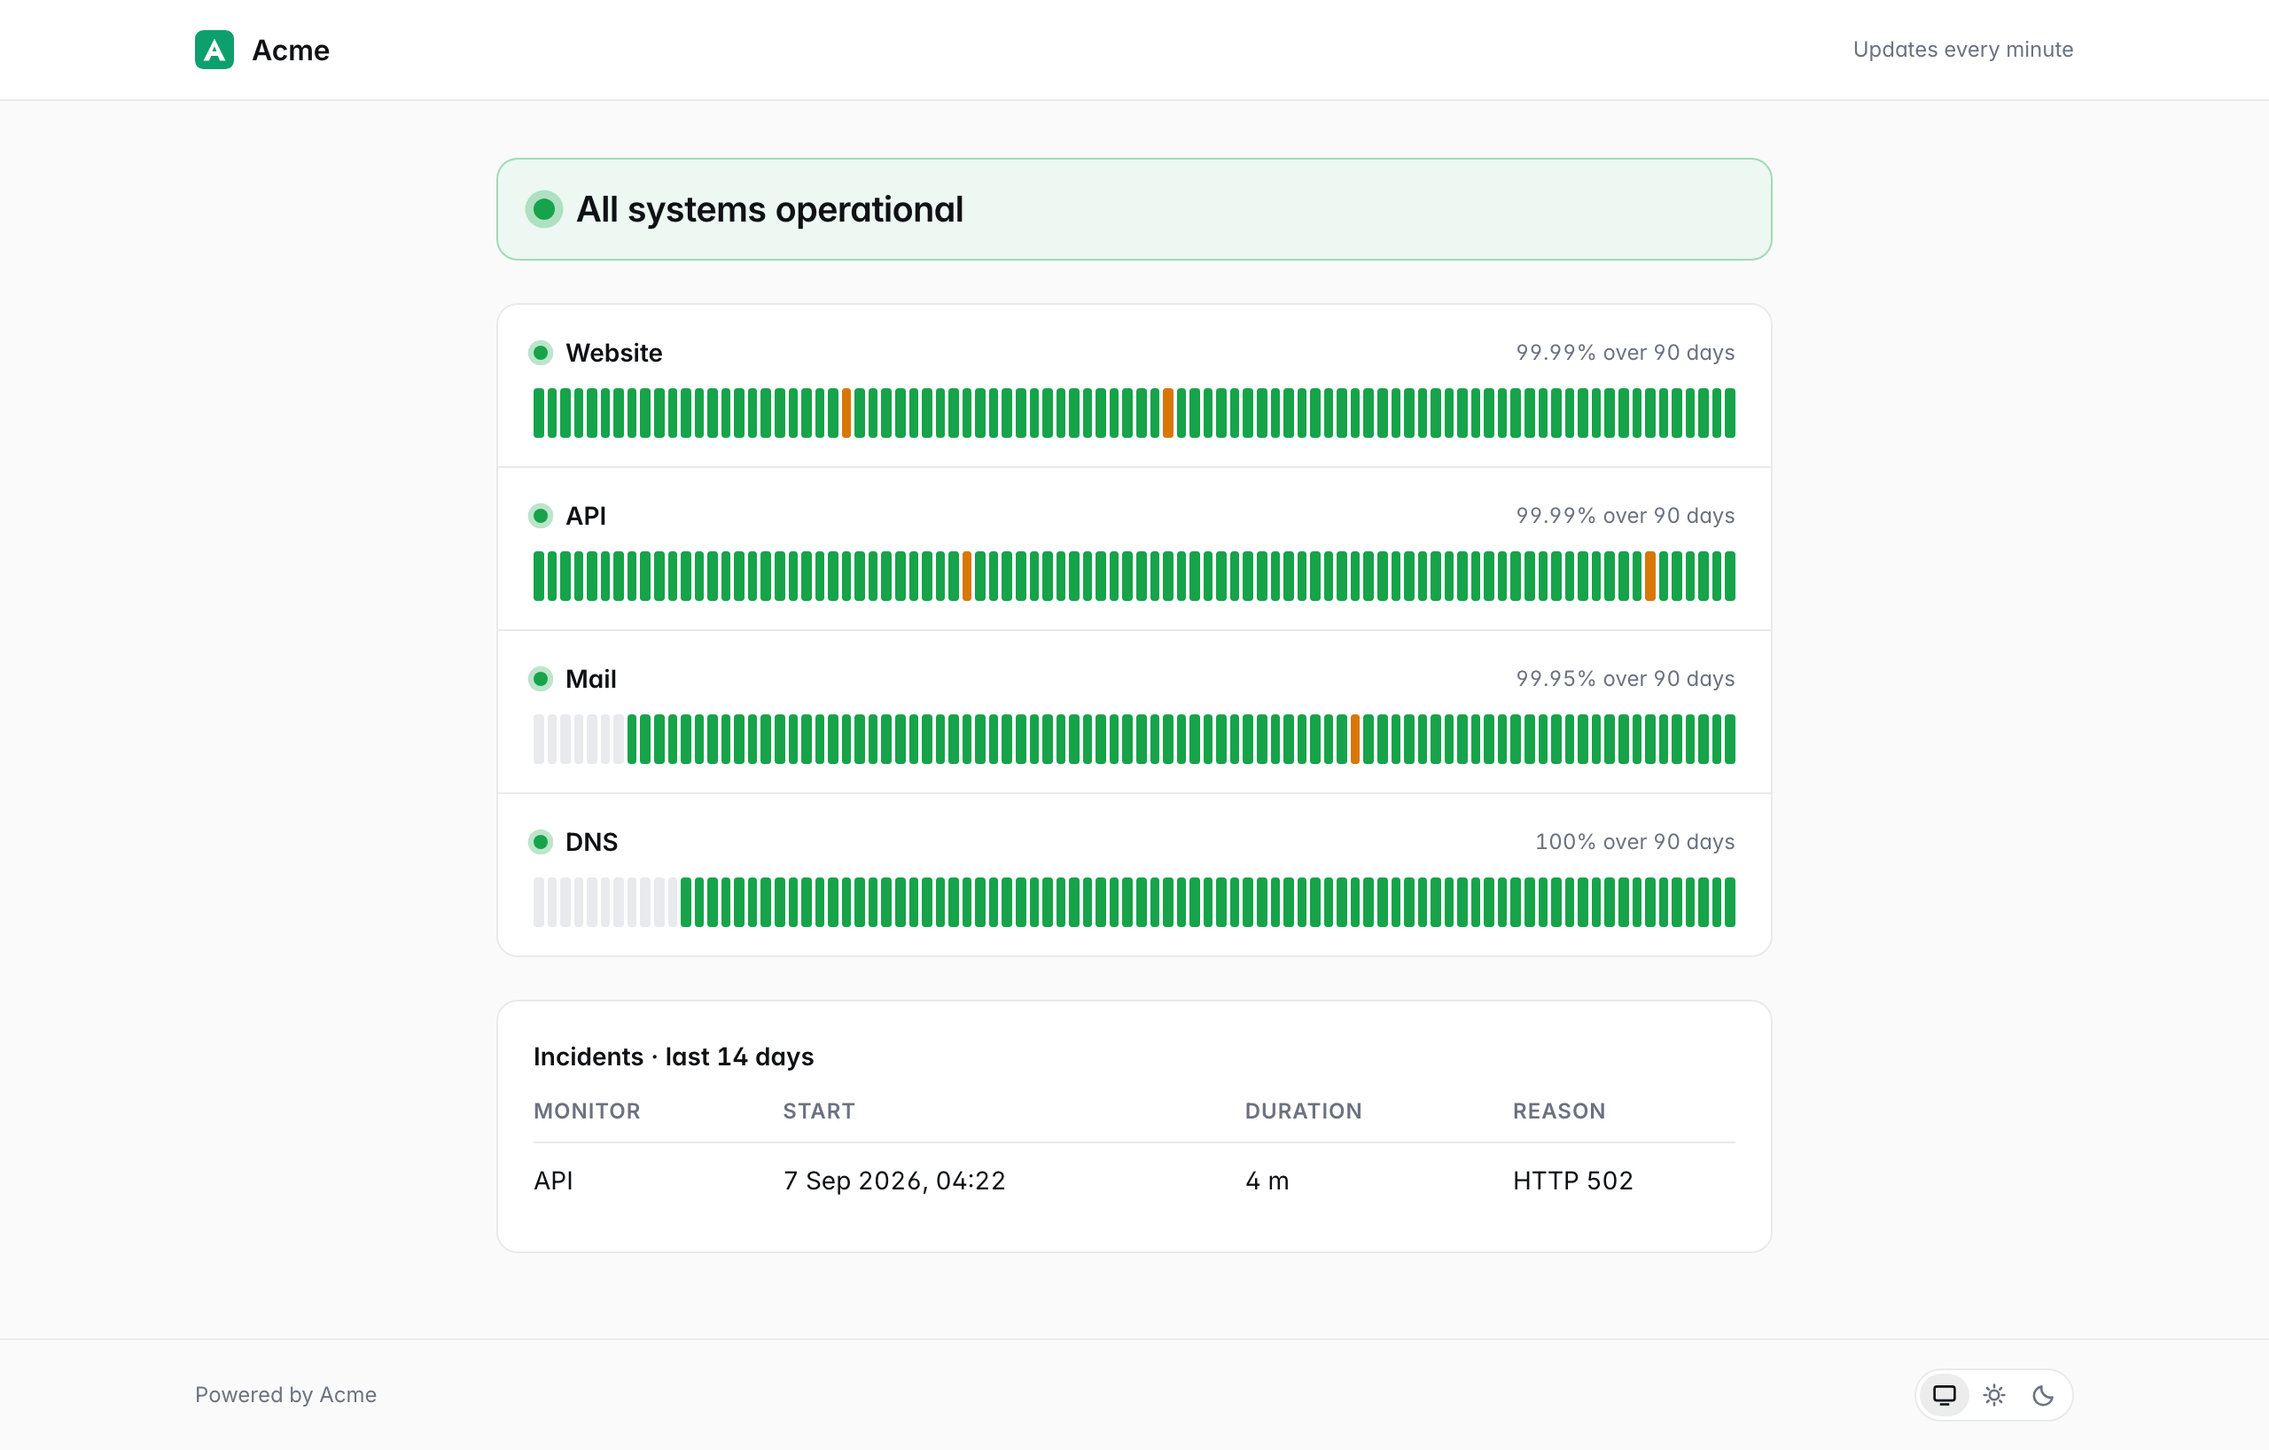
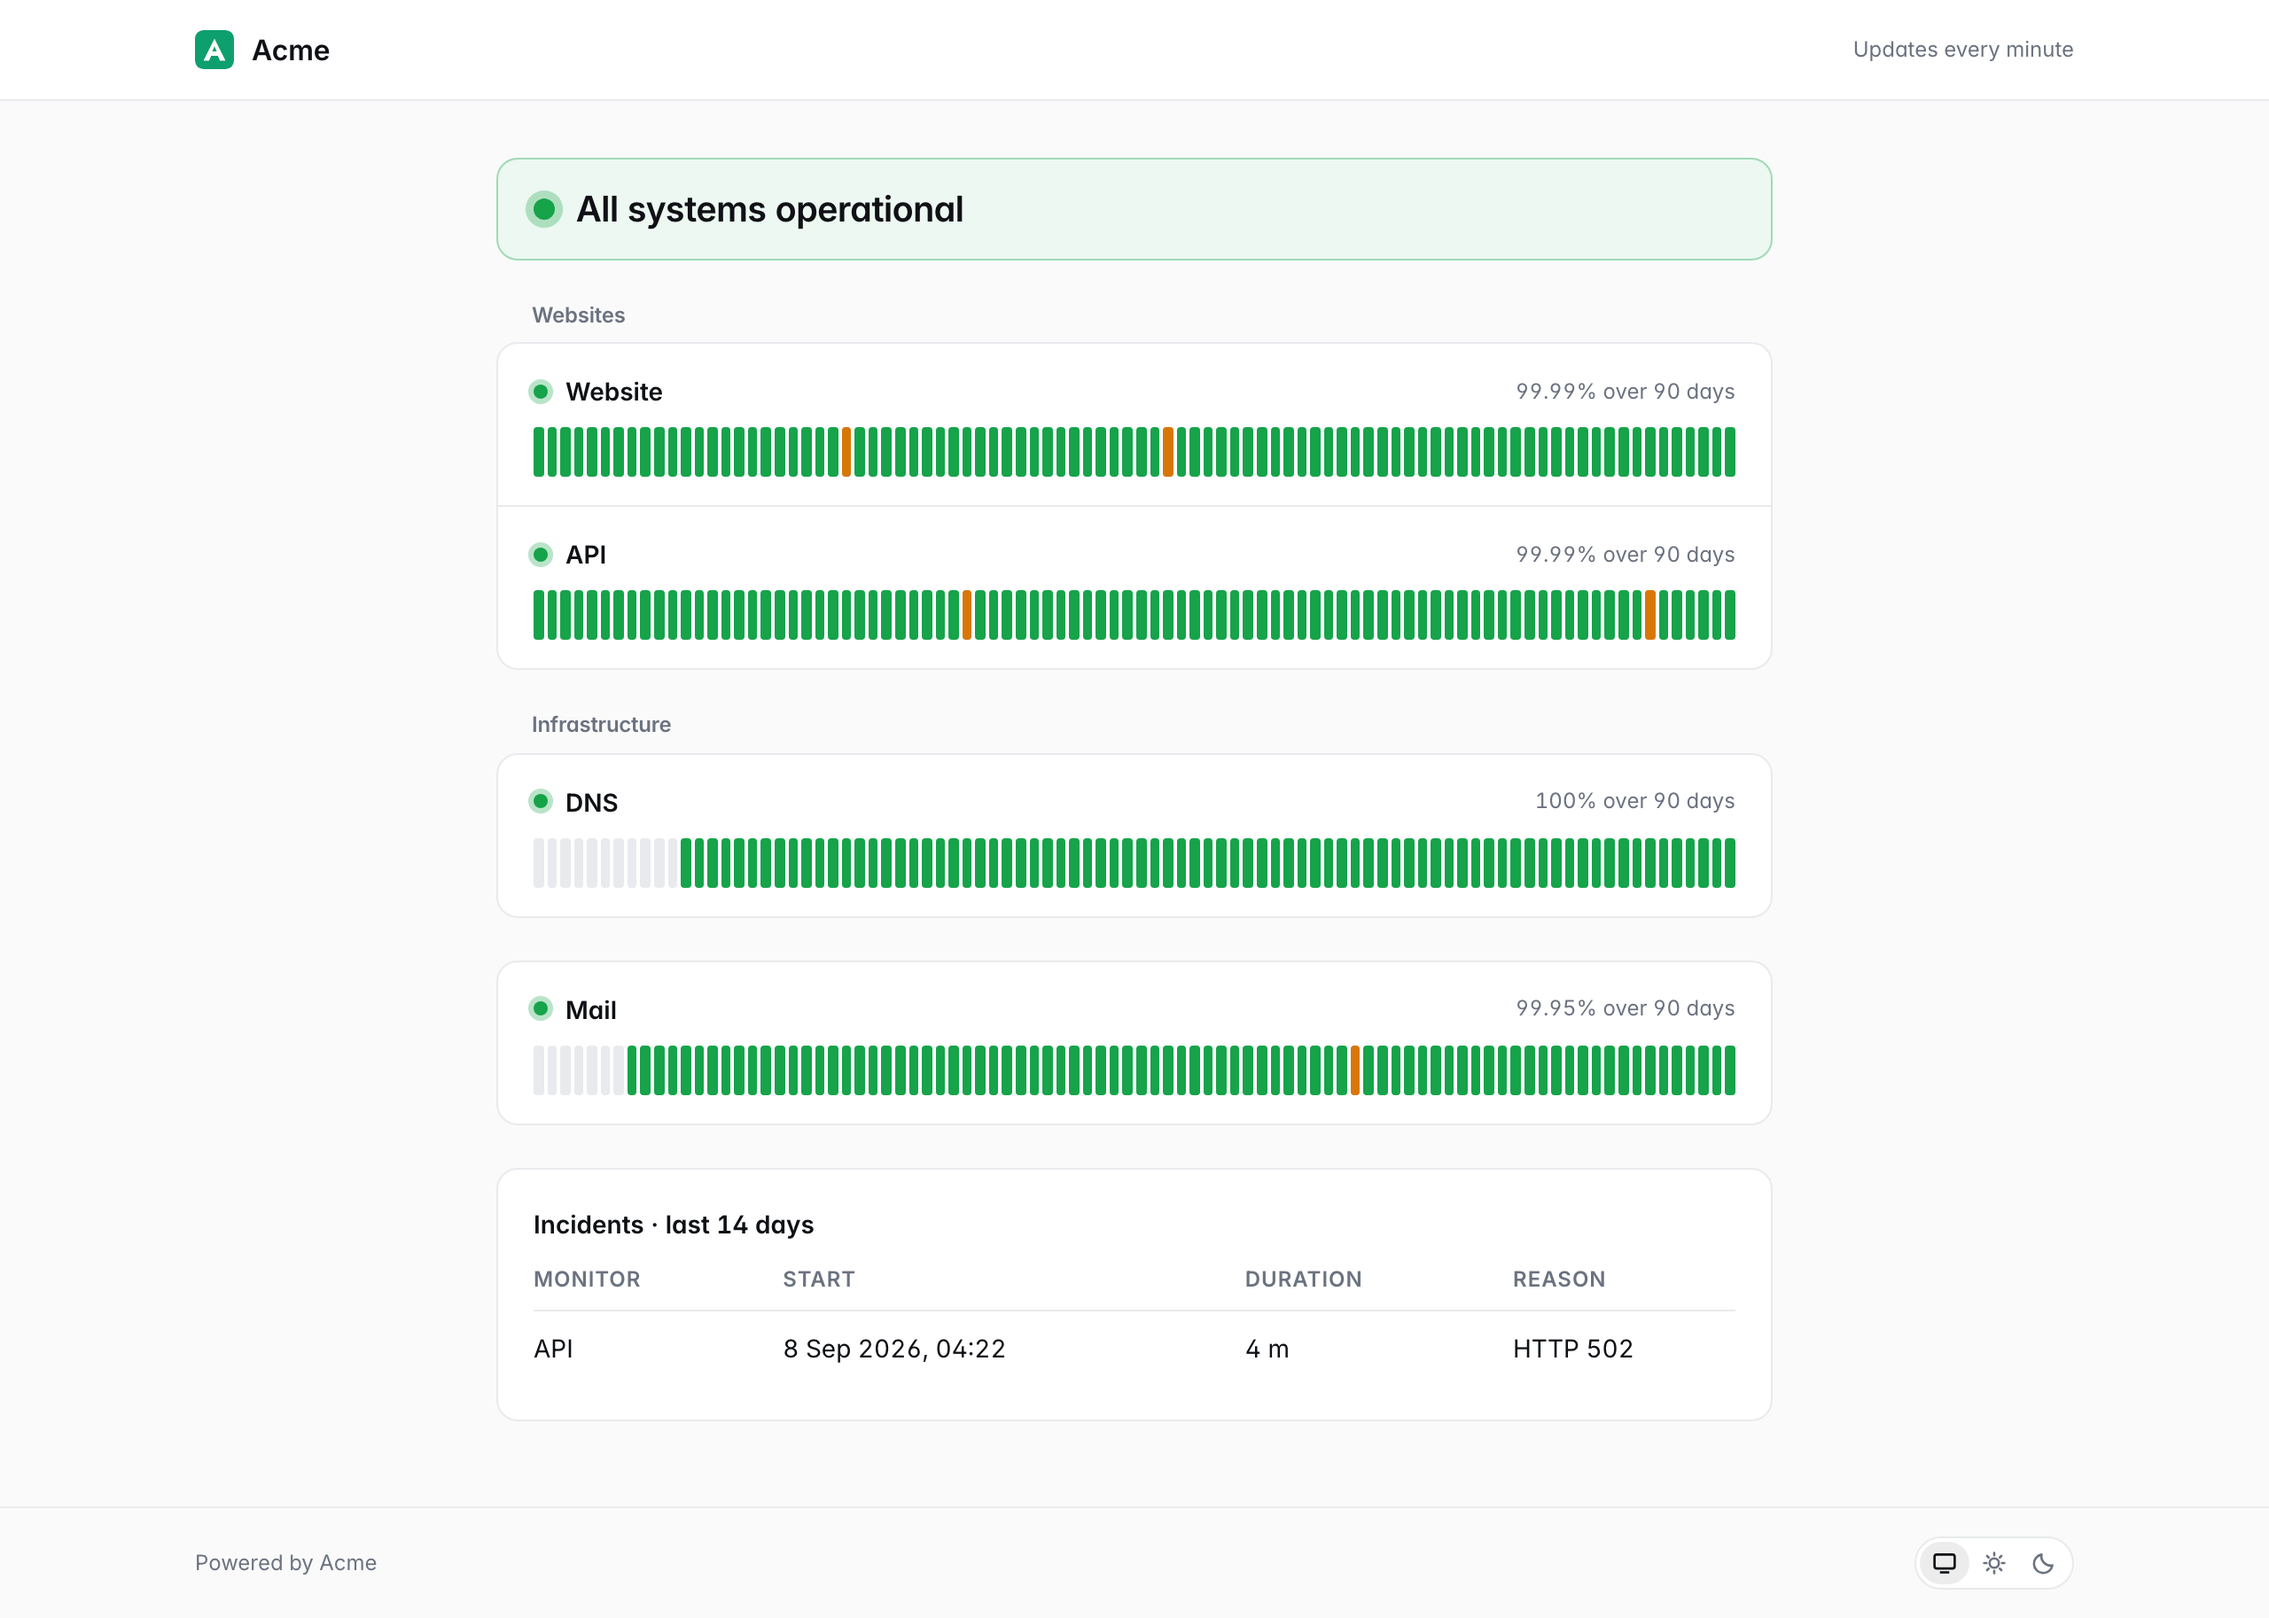
docs: retake the screenshots with monitor groups
Claude-Session: https://claude.ai/code/session_01LtfRUgyn21fcBphWzN2mwZ

diff --git a/docs/screenshots/seed.py b/docs/screenshots/seed.py
@@ -1,9 +1,12 @@
 """Seed a demo database for the README screenshots.
 
 Seven monitors, 30 days of raw checks plus 60 more days in the daily table,
-a handful of past incidents, and Postgres down right now. The Website
-monitor's last check is 61 s old so the engine checks it live at startup
-and fills the certificate tile. The other monitors are not due for 5 min.
+a handful of past incidents, and Postgres down right now. Five monitors are
+in two groups. Mail and Nightly backup are in no group, so the shots show
+the monitors below the groups. Each group has a public monitor, so its
+heading shows on the status page too. The Website monitor's last check is
+61 s old so the engine checks it live at startup and fills the certificate
+tile. The other monitors are not due for 5 min.
 """
 import base64, random, sqlite3, sys, time
 from datetime import datetime, timedelta
@@ -28,6 +31,12 @@ monitors = [
     ("Gateway", "ping", "203.0.113.1", 300, 0, 90, 9, 3, 5),
     ("Nightly backup", "push", "", 86400, 0, 90, None, None, 6 * 3600),
 ]
+# Groups in dashboard order, each with its monitors in order. The monitors
+# that are in no group keep the order of the list above.
+groups = [
+    ("Websites", ["Website", "API"]),
+    ("Infrastructure", ["Postgres", "DNS", "Gateway"]),
+]
 # monitor index, start, minutes, reason, status code, open
 incidents = [
     (0, now - 25 * 60, None, "connection refused", None),
@@ -41,15 +50,25 @@ incidents = [
 
 con = sqlite3.connect(db)
 con.execute("PRAGMA journal_mode=WAL")
-for t in ("monitors", "checks", "daily", "incidents"):
+for t in ("monitors", "monitor_groups", "checks", "daily", "incidents"):
     con.execute(f"DELETE FROM {t}")
 
+# Positions count from 1 inside each group, and from 1 among the monitors in
+# no group.
+group_of, position = {}, {}
+for gpos, (gname, members) in enumerate(groups, 1):
+    cur = con.execute("INSERT INTO monitor_groups (name, position, created_at) VALUES (?,?,?)", (gname, gpos, now - TOTAL_DAYS * DAY))
+    for i, name in enumerate(members, 1):
+        group_of[name], position[name] = cur.lastrowid, i
+for i, name in enumerate([m[0] for m in monitors if m[0] not in position], 1):
+    position[name] = i
+
 ids = []
-for pos, (name, typ, target, iv, pub, age, *_ ) in enumerate(monitors):
+for name, typ, target, iv, pub, age, *_ in monitors:
     token = base64.urlsafe_b64encode(random.randbytes(24)).decode().rstrip("=") if typ == "push" else None
     cur = con.execute(
-        "INSERT INTO monitors (name, type, target, push_token, interval_s, public, paused, position, created_at) VALUES (?,?,?,?,?,?,0,?,?)",
-        (name, typ, target, token, iv, pub, pos, now - age * DAY))
+        "INSERT INTO monitors (name, type, target, push_token, interval_s, public, paused, position, group_id, created_at) VALUES (?,?,?,?,?,?,0,?,?,?)",
+        (name, typ, target, token, iv, pub, position[name], group_of.get(name), now - age * DAY))
     ids.append(cur.lastrowid)
 
 def windows(mi):
